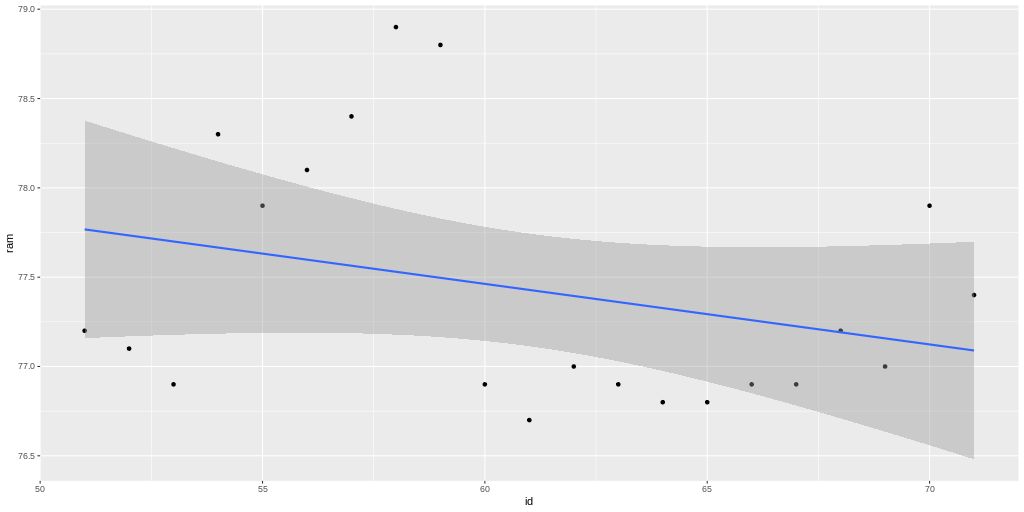
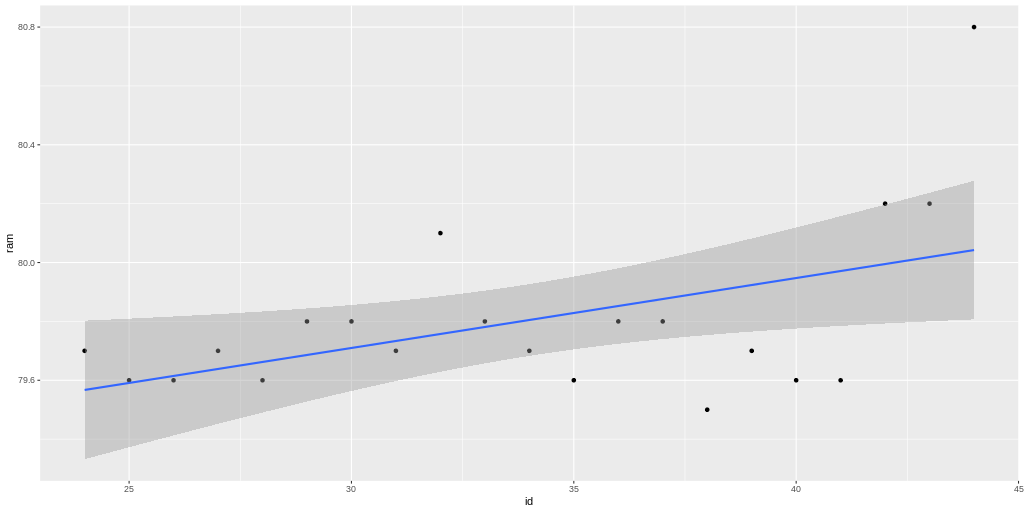
solucao de atualizar img em dev

diff --git a/index.html b/index.html
@@ -28,25 +28,35 @@
 </head>
 <body>
     <div id="main" class="graficos">
-        <!-- <img id="cpu" class="img" src="graficos/cpu.png" alt="">
-        <img id="ram" class="img" src="graficos/ram.png" alt="">
-        <img id="disk" class="img" src="graficos/disk.png" alt=""> -->
+        <canvas onload="drawImage('graficos/cpu.png')"id="cpu" class="img"  alt=""></canvas>
     </div>
+    <canvas id="ram" class="img" src="graficos/ram.png" alt=""></canvas>
+    <canvas id="disk" class="img" src="graficos/disk.png" alt=""></canvas>
 </body>
 </html>
 <script>
-    setInterval(()=>{
-        reloadGraphs();
-    },1000)
+let canvas = document.getElementById("cpu");
+let ctx = canvas.getContext("2d"); 
+let newImage = new Image() 
+newImage.src = 'graficos/cpu.png'
+newImage.onload = () => {
+    // Draw the image onto the context
+    ctx.drawImage(newImage, 0, 0, 250, 208);
+}
+setInterval(()=>{
+    document.getElementById('cpu').remove();
+    cpu = document.createElement('canvas');
+    cpu.setAttribute('id', 'cpu');
+    cpu.setAttribute('class', 'img');
+    main.appendChild(cpu);
 
-    function reloadGraphs(){
-        console.log("oi")
-        main = document.getElementById("main")
-        main.innerHTML = ""
-        main.innerHTML = `
-        <img id="cpu" class="img" src="graficos/cpu.png" alt="">
-        <img id="ram" class="img" src="graficos/ram.png" alt="">
-        <img id="disk" class="img" src="graficos/disk.png" alt="">
-        `
+    let newImage = new Image() 
+    newImage.src = 'graficos/cpu.png'
+    newImage.onload = () => {
+        // Draw the image onto the context
+        ctx.drawImage(newImage, 0, 0, 250, 208);
     }
+},500)
+
+
 </script>

diff --git a/main.py b/main.py
@@ -8,7 +8,7 @@
 import psutil as ps
 from collections import deque
 from time import sleep
-
+from datetime import datetime 
 # Bibliotecas para conexão com r
 import pandas as pd
 import rpy2
@@ -24,7 +24,7 @@ import rpy2.robjects.lib.ggplot2 as ggplot2
 import mysql.connector as sql
 
 base = importr('base')
-
+agora = datetime.now() 
 cont = 0
 
 ids = deque([])
@@ -46,40 +46,40 @@ while cont < 100:
   print(ramPercent)
   print(diskPercent)
 
-  if cont >= 20:
+  
     # Data frame (pandas) de exemplo
-    pd_df = pd.DataFrame({'id': ids,
-                          'cpu': cpuPercent,
-                          'ram': ramPercent,
-                          'disk': diskPercent})
+  pd_df = pd.DataFrame({'id': ids,
+                        'cpu': cpuPercent,
+                        'ram': ramPercent,
+                        'disk': diskPercent})
 
-    # Conversor de data frame do pandas para o data frame em r
-    with localconverter(ro.default_converter + pandas2ri.converter):
-      dadosMaquina = ro.conversion.py2rpy(pd_df)
+  # Conversor de data frame do pandas para o data frame em r
+  with localconverter(ro.default_converter + pandas2ri.converter):
+    dadosMaquina = ro.conversion.py2rpy(pd_df)
 
-    metricas = ["cpu","ram","disk"]
+  metricas = ["cpu","ram","disk"]
 
-    for metrica in metricas:
+  for metrica in metricas:
 
-      # Gera um .png vazio
-      grdevices = importr('grDevices')
-      grdevices.png(file=f"~/Music/analytics-py-r-html/graficos/{metrica}.png", width=1024, height=512)
+    # Gera um .png vazio
+    grdevices = importr('grDevices')
+    grdevices.png(file=f"~/Music/analytics-py-r-html/graficos/{metrica}.png", width=1024, height=512)
 
-      # Plota o gráfico
-      pp = (ggplot2.ggplot(dadosMaquina) +
-          ggplot2.aes_string(x='id', y=metrica) +
-          ggplot2.geom_point() +
-          ggplot2.geom_smooth(method = 'lm'))
+    # Plota o gráfico
+    pp = (ggplot2.ggplot(dadosMaquina) +
+        ggplot2.aes_string(x='id', y=metrica) +
+        ggplot2.geom_point() +
+        ggplot2.geom_smooth(method = 'lm'))
 
-      pp.plot()
+    pp.plot()
 
-      # Salva o gráfico no .png
-      grdevices.dev_off()
+    # Salva o gráfico no .png
+    grdevices.dev_off()
+    if cont >= 20:
+      ids.popleft()
+      cpuPercent.popleft()
+      ramPercent.popleft()
+      diskPercent.popleft()
 
-    ids.popleft()
-    cpuPercent.popleft()
-    ramPercent.popleft()
-    diskPercent.popleft()
-
-  sleep(3)
+  sleep(1)
   cont += 1
